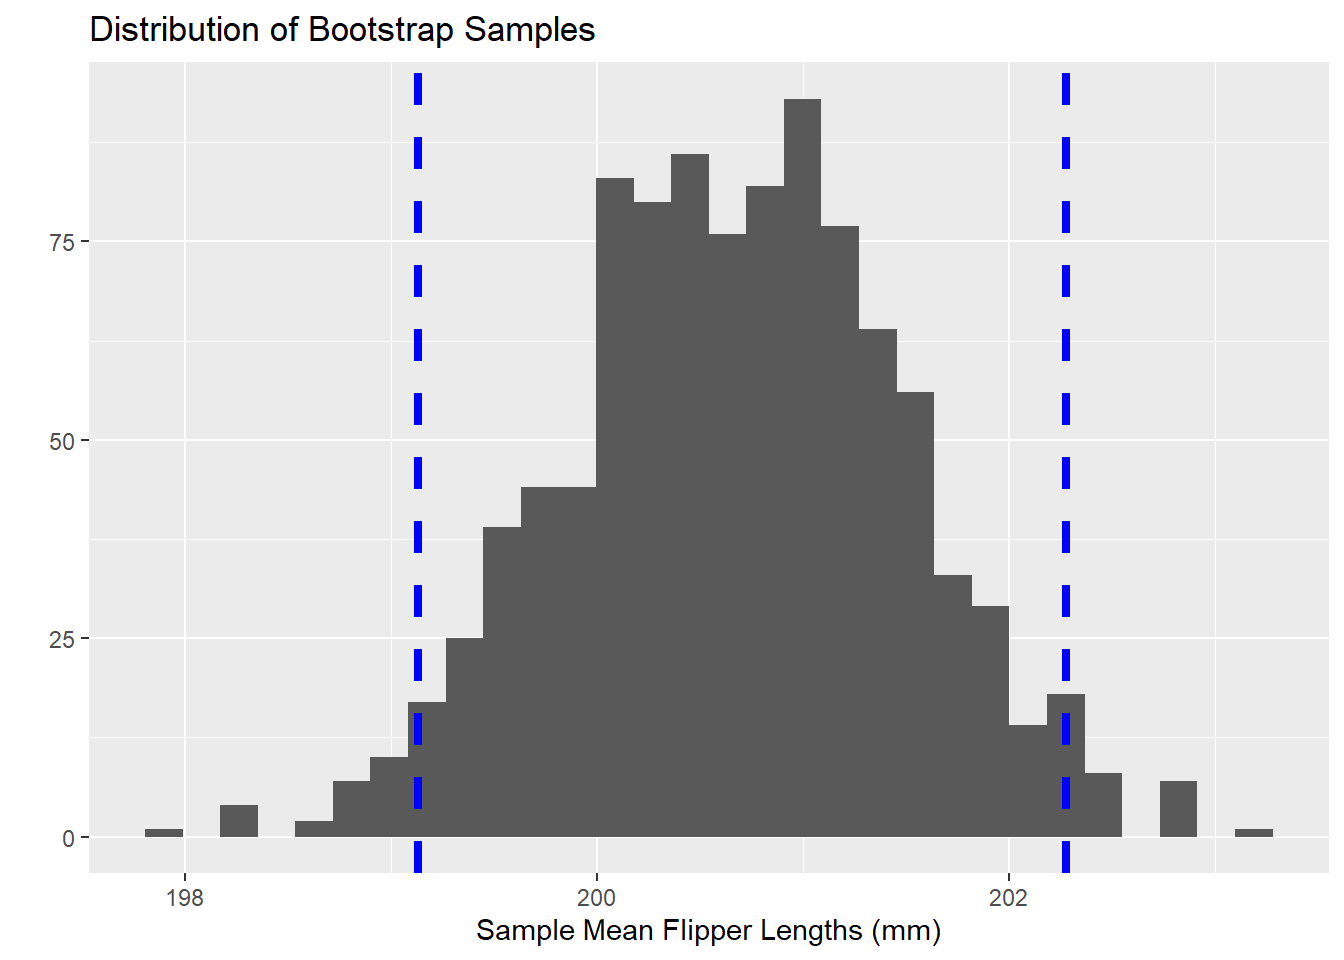
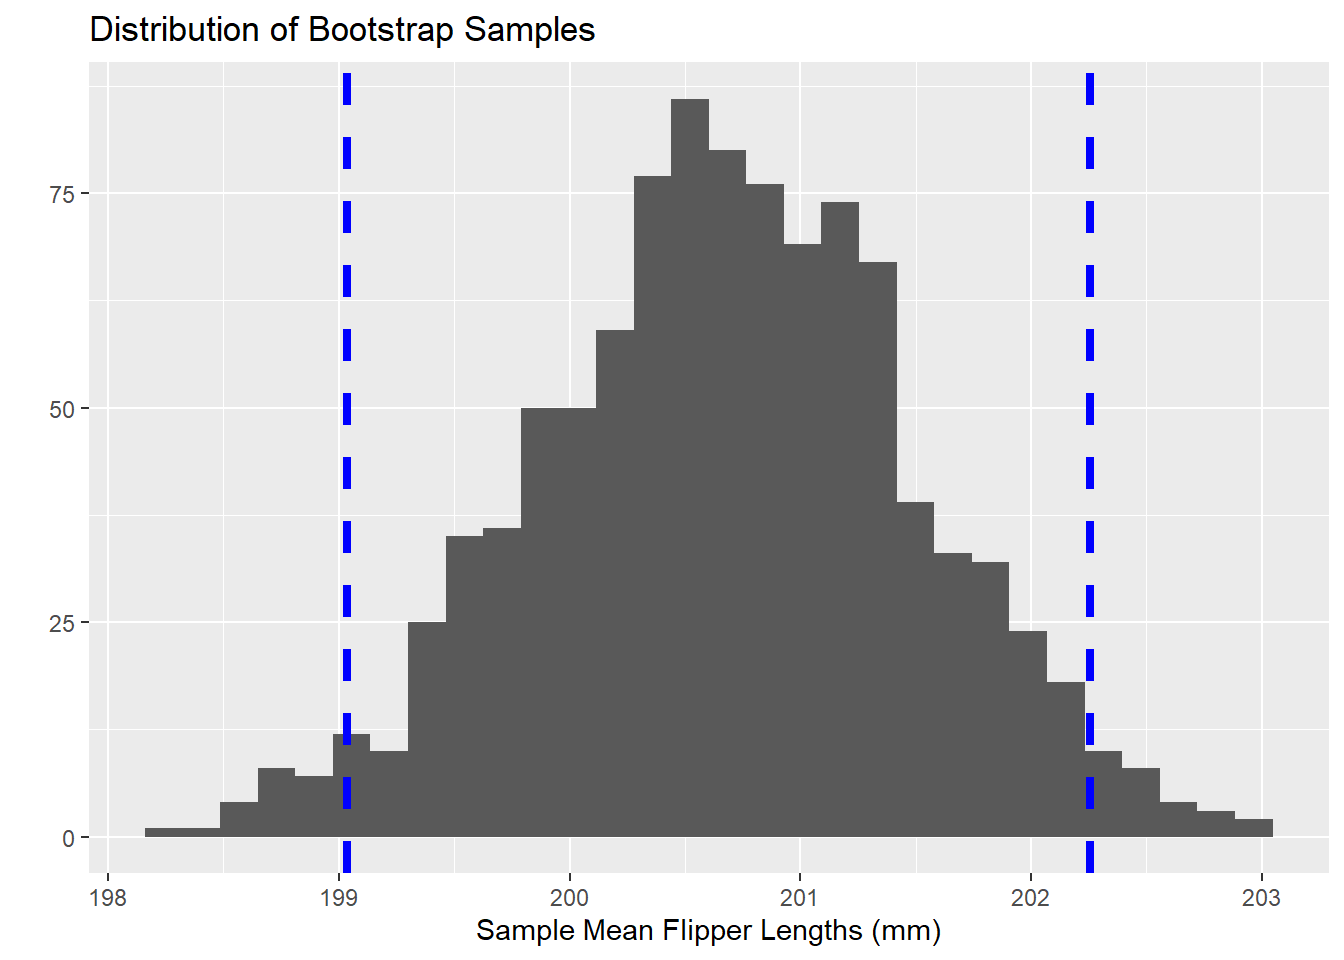
fix typos in SimInference and change tasks to remove mention of groups.

diff --git a/ClassicalInferenceAndSimulationBasedInference.html b/ClassicalInferenceAndSimulationBasedInference.html
@@ -183,10 +183,10 @@ code span.wa { color: #60a0b0; font-weight: bold; font-style: italic; } /* Warni
 <div class="sourceCode cell-code" id="cb3"><pre class="sourceCode r code-with-copy"><code class="sourceCode r"><span id="cb3-1"><a href="#cb3-1" aria-hidden="true" tabindex="-1"></a><span class="fu">quantile</span>(sample_means, <span class="fu">c</span>(<span class="fl">0.025</span>, <span class="fl">0.975</span>))</span></code><button title="Copy to Clipboard" class="code-copy-button"><i class="bi"></i></button></pre></div>
 <div class="cell-output cell-output-stdout">
 <pre><code>    2.5%    97.5% 
-199.1294 202.2787 </code></pre>
+199.0373 202.2575 </code></pre>
 </div>
 </div>
-<p>We can now claim, with <span class="math inline">\(95\)</span>% confidence, that the population mean flipper length for penguins falls somewhere between 199.13mm and 202.28mm. Visually, what we’ve done appears below – with the confidence interval bounds represented by the two vertical dashed lines.</p>
+<p>We can now claim, with <span class="math inline">\(95\)</span>% confidence, that the population mean flipper length for penguins falls somewhere between 199.04mm and 202.26mm. Visually, what we’ve done appears below – with the confidence interval bounds represented by the two vertical dashed lines.</p>
 <div class="cell">
 <div class="sourceCode cell-code" id="cb5"><pre class="sourceCode r code-with-copy"><code class="sourceCode r"><span id="cb5-1"><a href="#cb5-1" aria-hidden="true" tabindex="-1"></a><span class="fu">ggplot</span>() <span class="sc">+</span></span>
 <span id="cb5-2"><a href="#cb5-2" aria-hidden="true" tabindex="-1"></a>  <span class="fu">geom_histogram</span>(<span class="fu">aes</span>(<span class="at">x =</span> sample_means)) <span class="sc">+</span></span>
@@ -252,12 +252,12 @@ code span.wa { color: #60a0b0; font-weight: bold; font-style: italic; } /* Warni
 <span id="cb9-3"><a href="#cb9-3" aria-hidden="true" tabindex="-1"></a>bootstrapped_p_value <span class="ot">&lt;-</span> <span class="dv">2</span><span class="sc">*</span>(num_extreme <span class="sc">/</span> num_samps)</span>
 <span id="cb9-4"><a href="#cb9-4" aria-hidden="true" tabindex="-1"></a>bootstrapped_p_value</span></code><button title="Copy to Clipboard" class="code-copy-button"><i class="bi"></i></button></pre></div>
 <div class="cell-output cell-output-stdout">
-<pre><code>[1] 0.026</code></pre>
+<pre><code>[1] 0.036</code></pre>
 </div>
 </div>
 <p>Since we’ve obtained a Bootstrapped <span class="math inline">\(p\)</span>-value below <span class="math inline">\(0.05\)</span>, we have statistically significant evidence to suggest that our penguin flipper lengths do not come from a normal distribution with mean <span class="math inline">\(200\)</span>mm and standard deviation <span class="math inline">\(5\)</span>mm. Three things are possible here:</p>
 <ul>
-<li>The population mean is truly greater than <span class="math inline">\(200\)</span>mm</li>
+<li>The population mean is truly different than <span class="math inline">\(200\)</span>mm</li>
 <li>The population standard deviation is truly greater than <span class="math inline">\(5mm\)</span></li>
 <li>The overall population distribution is not a normal distribution at all</li>
 </ul>
@@ -332,12 +332,12 @@ code span.wa { color: #60a0b0; font-weight: bold; font-style: italic; } /* Warni
 <section id="your-tasks" class="level2">
 <h2 class="anchored" data-anchor-id="your-tasks">Your Tasks</h2>
 <ul>
-<li>With your group, decide on another question you would like to test with the penguins dataset.</li>
+<li>Decide on another question you would like to test with the penguins dataset.</li>
 <li>Write an alternative and null hypothesis that relates to your question.</li>
 <li>Decide how you can adjust the code above to test your question using bootstrapping methods.</li>
 <li>Conduct your analysis. Does the bootstrapping analysis support your hypothesis?</li>
-<li>Be sure your analysis is well documented and described in your notebook. Envision your notebook as your methodology that you’re sharing with the scientific community.</li>
-<li>Use the <code>Pull -&gt; Commit -&gt; Push</code> workflow to publish your completed notebook to GitHub.</li>
+<li>Be sure your analysis is well documented and described in your notebook. Again, envision your notebook as your methodology that you’re sharing with the scientific community.</li>
+<li>Use the <code>Pull -&gt; Commit -&gt; Push</code> workflow to publish your completed notebook to your GitHub repository.</li>
 </ul>
 </section>
 

diff --git a/ClassicalInferenceAndSimulationBasedInference.md b/ClassicalInferenceAndSimulationBasedInference.md
@@ -86,13 +86,13 @@ quantile(sample_means, c(0.025, 0.975))
 ::: {.cell-output .cell-output-stdout}
 ```
     2.5%    97.5% 
-199.1294 202.2787 
+199.0373 202.2575 
 ```
 :::
 :::
 
 
-We can now claim, with $95$% confidence, that the population mean flipper length for penguins falls somewhere between 199.13mm and 202.28mm. Visually, what we've done appears below -- with the confidence interval bounds represented by the two vertical dashed lines.
+We can now claim, with $95$% confidence, that the population mean flipper length for penguins falls somewhere between 199.04mm and 202.26mm. Visually, what we've done appears below -- with the confidence interval bounds represented by the two vertical dashed lines.
 
 
 ::: {.cell}
@@ -187,7 +187,7 @@ bootstrapped_p_value
 
 ::: {.cell-output .cell-output-stdout}
 ```
-[1] 0.026
+[1] 0.036
 ```
 :::
 :::
@@ -195,7 +195,7 @@ bootstrapped_p_value
 
 Since we've obtained a Bootstrapped $p$-value below $0.05$, we have statistically significant evidence to suggest that our penguin flipper lengths do not come from a normal distribution with mean $200$mm and standard deviation $5$mm. Three things are possible here:
 
-+ The population mean is truly greater than $200$mm
++ The population mean is truly different than $200$mm
 + The population standard deviation is truly greater than $5mm$
 + The overall population distribution is not a normal distribution at all
 
@@ -286,12 +286,9 @@ The Bootstrapped $p$-value above indicates that our difference in average flippe
 
 ## Your Tasks
 
-+ With your group, decide on another question you would like to test with the penguins dataset.
++ Decide on another question you would like to test with the penguins dataset.
 + Write an alternative and null hypothesis that relates to your question.
 + Decide how you can adjust the code above to test your question using bootstrapping methods.
 + Conduct your analysis. Does the bootstrapping analysis support your hypothesis?
-+ Be sure your analysis is well documented and described in your notebook. Envision your notebook as your methodology that you're sharing with the scientific community. 
-+ Use the `Pull -> Commit -> Push` workflow to publish your completed notebook to GitHub.
-
-
-
++ Be sure your analysis is well documented and described in your notebook. Again, envision your notebook as your methodology that you're sharing with the scientific community.
++ Use the `Pull -> Commit -> Push` workflow to publish your completed notebook to your GitHub repository.
